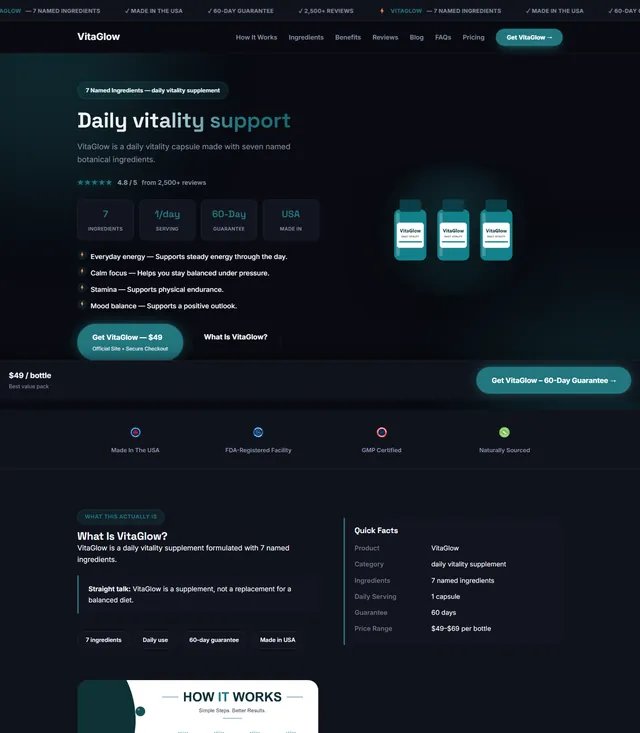
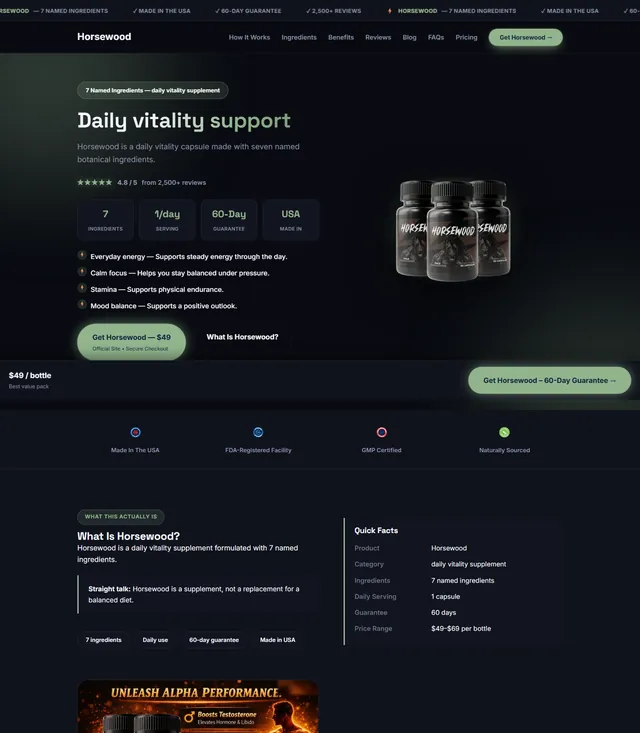
Landing previews: use the real product images (Horsewood) for all 17 designs

diff --git a/templates/landing.html b/templates/landing.html
@@ -69,7 +69,7 @@
     <div class="design"><a class="shot" href="/static/designs/design-{{k}}.webp" target="_blank" rel="noopener" aria-label="Open the Design {{k}} sample preview"><div class="sw" style="background:linear-gradient(135deg,{{ swatches[loop.index0 % swatches|length] }})"></div><img src="/static/designs/design-{{k}}.webp" alt="Sample website made with Design {{k}}" width="640" height="733" loading="lazy" onerror="this.remove()"></a><div class="t"><b>Design {{k}}</b><span>{{label}}</span></div></div>
     {% endfor %}
   </div>
-  <p class="design-note">Previews are sample sites generated for a made-up product. Your own product, images and colours are used when you build yours.</p>
+  <p class="design-note">Previews are sample sites built with one product's photos and example text. Your own product, images, content and colours are used when you build yours.</p>
 </div></section>
 
 <section class="block alt"><div class="container">
